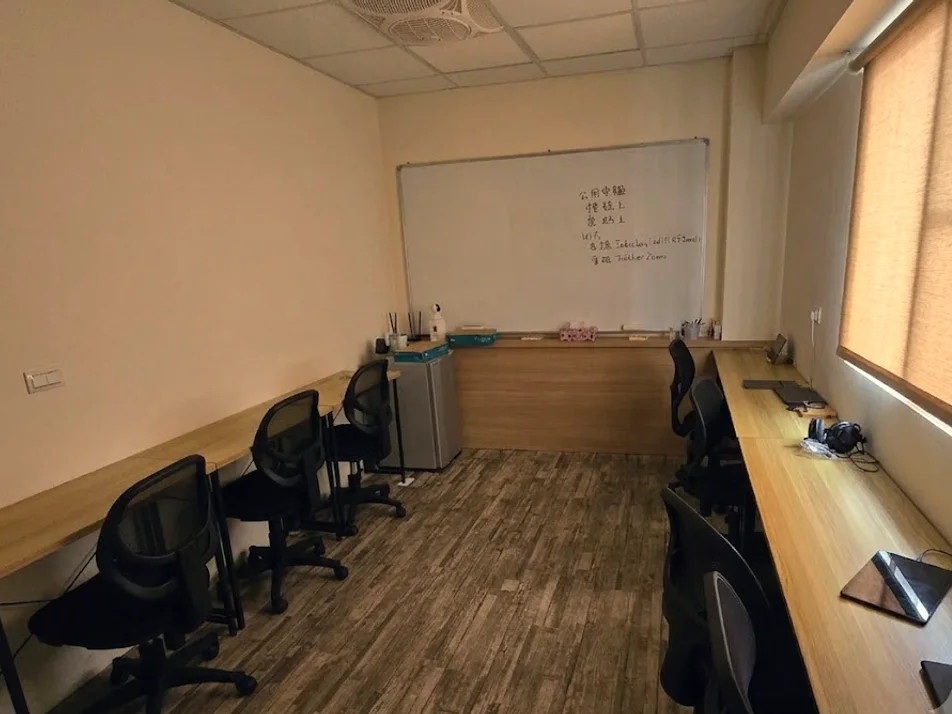
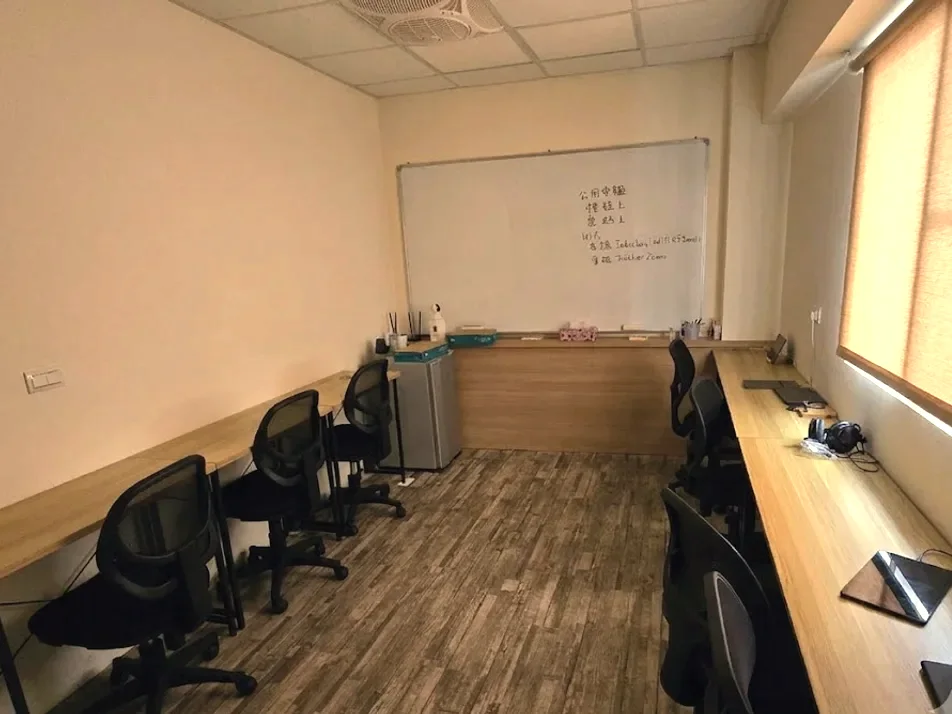
fix(fees+spaces): 半年繳整段下架（目前無開設）+ 自習區照片調亮對齊

diff --git a/src/content/config.ts b/src/content/config.ts
@@ -172,13 +172,6 @@ const fees = defineCollection({
       earlyBirdNote: z.string(),
       newStudentNote: z.string(),
     }),
-    // 半年繳
-    semiAnnual: z.object({
-      price: z.string(),
-      lessons: z.string(),
-      subjects: z.array(z.string()).default([]),
-      notes: z.array(z.string()).default([]),
-    }),
     // 家教
     tutoring: z.object({ description: z.string(), formula: z.string() }),
     // 套裝

diff --git a/src/content/faq/pricing.md b/src/content/faq/pricing.md
@@ -6,6 +6,6 @@ order: 6
 
 收費會依課程性質而有所不同，但大部分課程是以「一季」為單位計算：**多數課程一季 12 節、共 9,300 元**。
 
-特殊課程（例如國中生物、程式設計、半年繳或客製化課程等）的收費標準不同，請至各課程頁面查看，或撥打諮詢專線 **05-2230303**，我們會為你說明適用的方案。
+特殊課程（例如國中生物、程式設計或客製化課程等）的收費標準不同，請至各課程頁面查看，或撥打諮詢專線 **05-2230303**，我們會為你說明適用的方案。
 
 完整的收費級距、季度劃分與新生入班的計算方式，整理在收費與退費頁面，歡迎一併參考。

diff --git a/src/content/policy/makeup-coupon.md b/src/content/policy/makeup-coupon.md
@@ -10,7 +10,6 @@ order: 5
 | --- | --- | --- |
 | 📦 **套裝方案** | 每滿 4 節 | 🎟️ 發給補課券 1 張 |
 | 🛠️ **客製化方案** | 每滿 4 節 | 🎟️ 發給補課券 1 張 |
-| 📅 **半年繳** | 不發補課券 | 🔄 學生可隨時更換上課時間 |
 | 🗓️ **季繳** · 季初前繳費 | 季初前繳費 | 🎟️ 發給 3 張 |
 | 🗓️ **季繳** · 季初第 1 至 7 日繳費 | 季初第 1 至 7 日繳費 | 🎟️ 發給 2 張 |
 | 🗓️ **季繳** · 季初第 8 日（含）後繳費 | 季初第 8 日（含）後繳費 | 🎟️ 發給 1 張 |